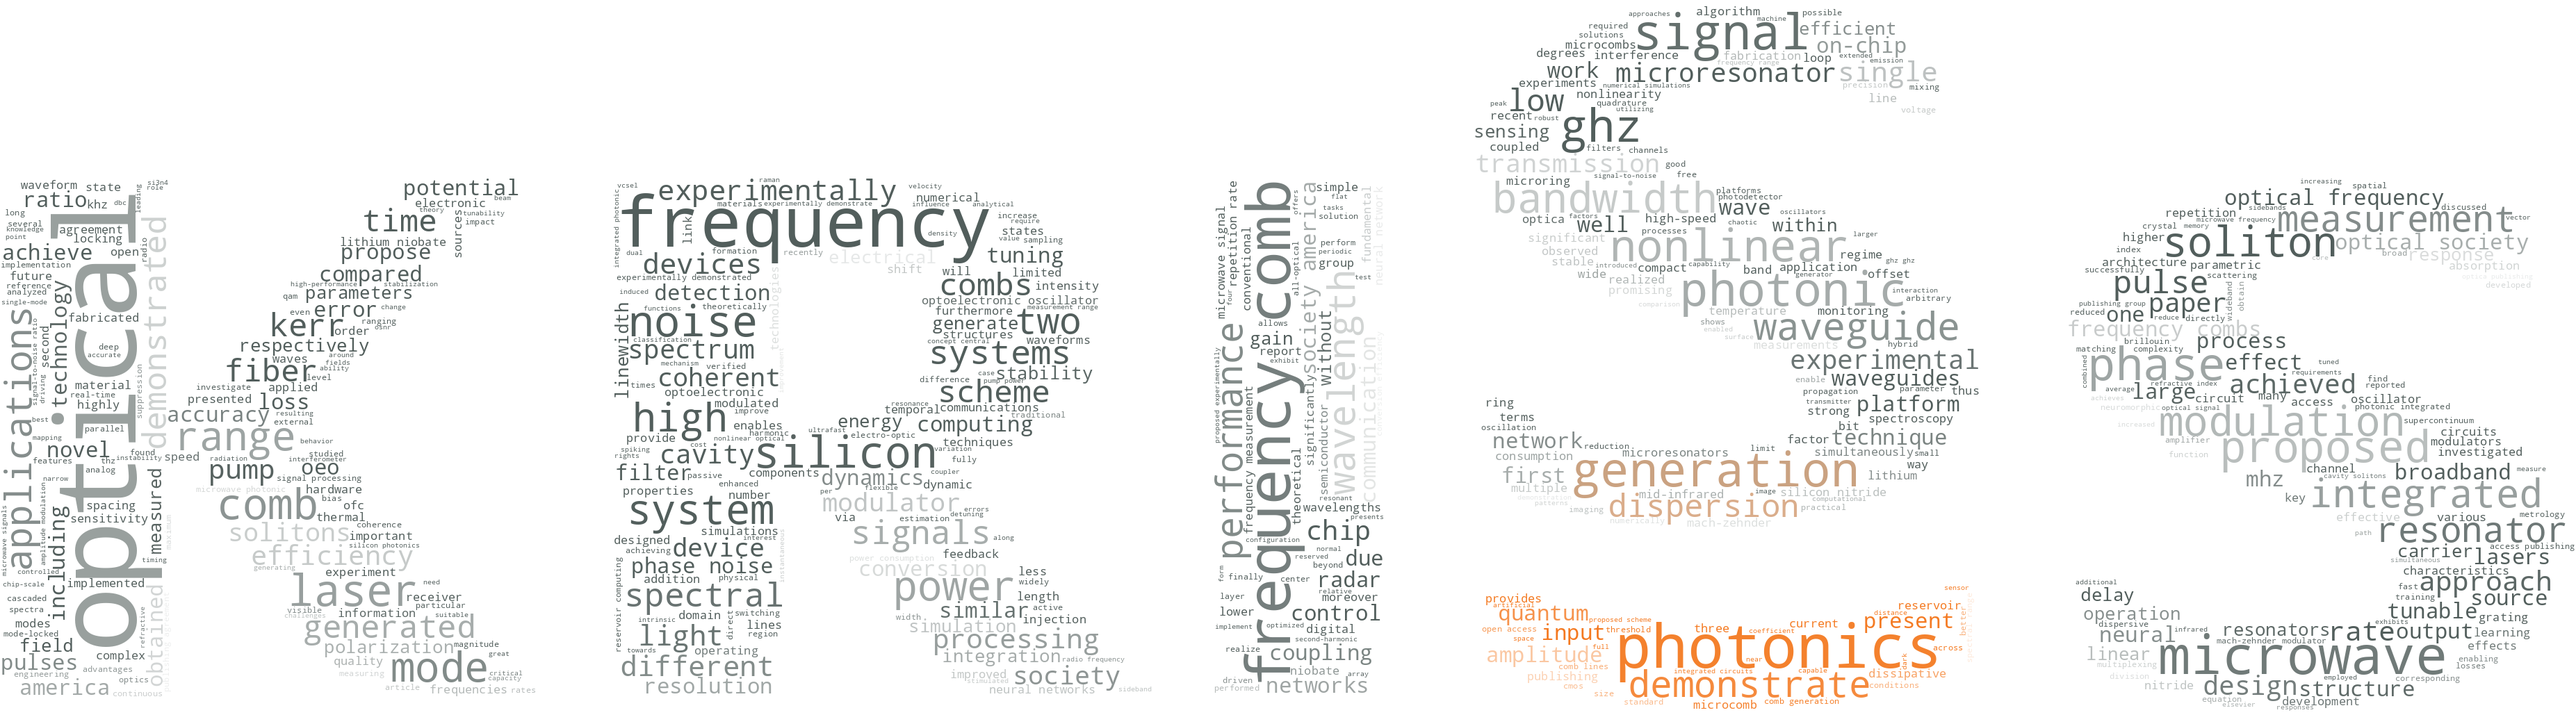
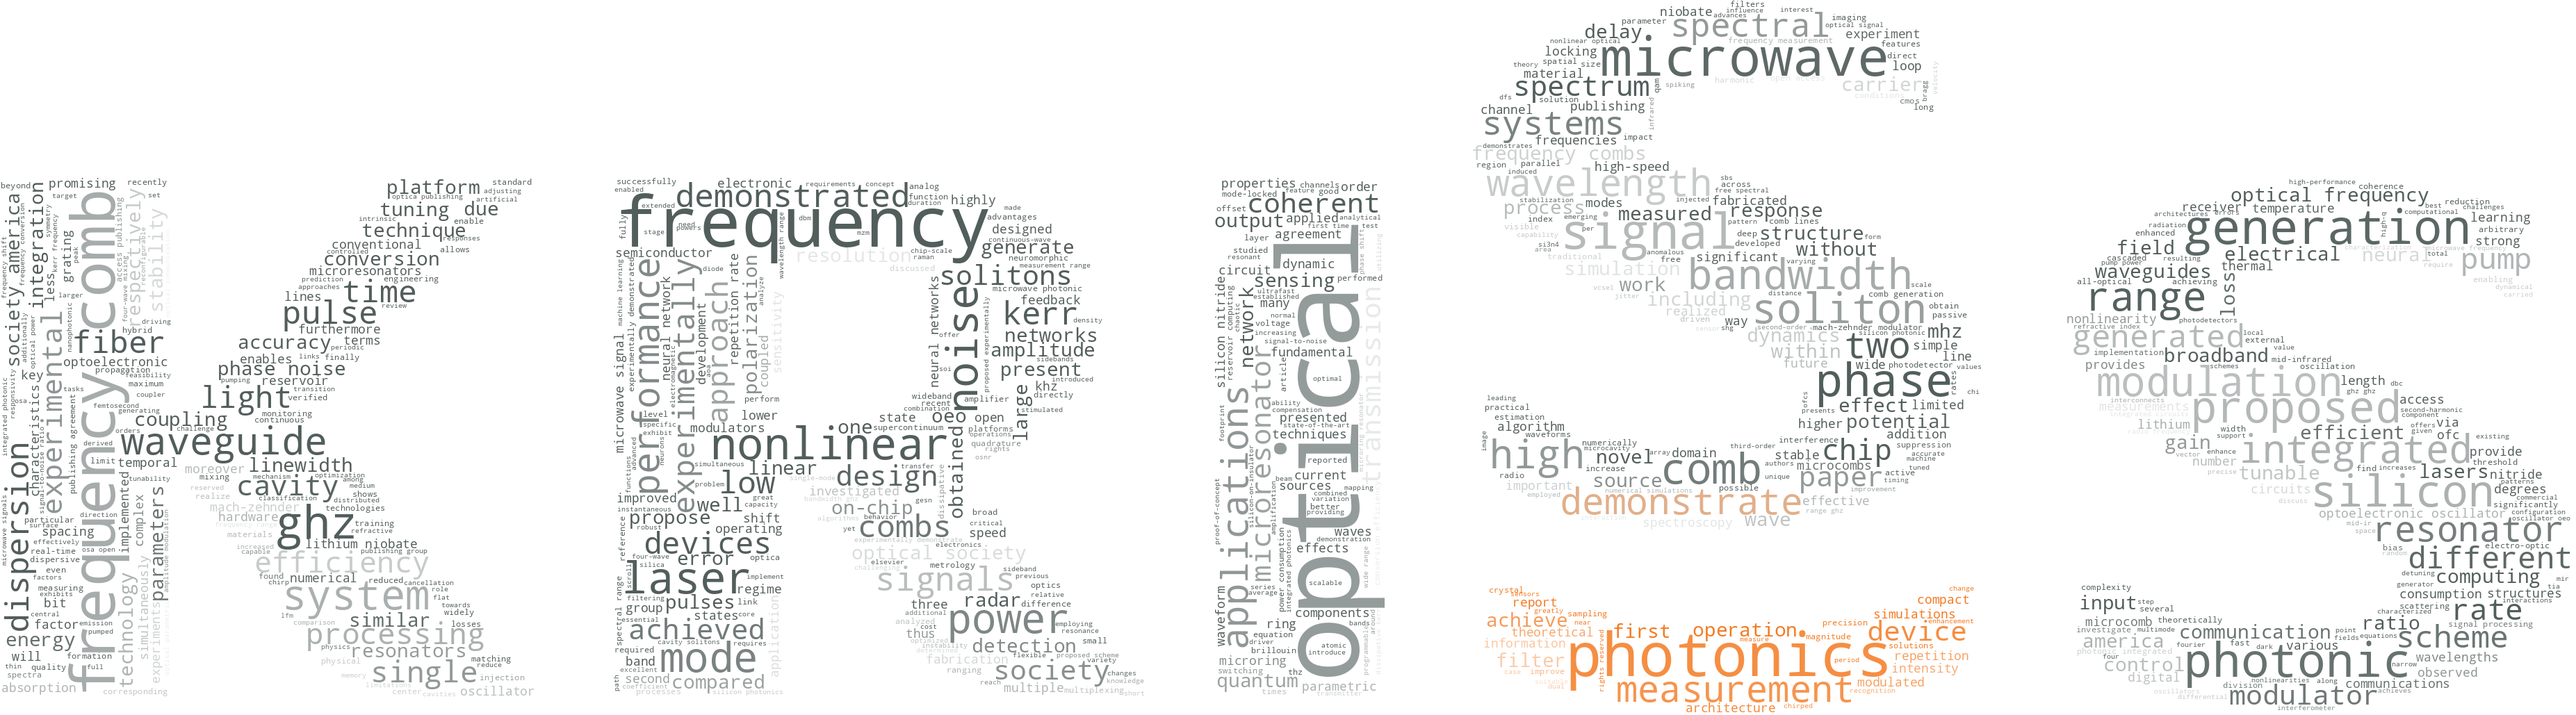
Fix terminology and refresh cluster 62 figures

diff --git a/Final_Report_MD/최종보고서 내용 2c4c6e66ff88807cb40fffc981037ae6.md b/Final_Report_MD/최종보고서 내용 2c4c6e66ff88807cb40fffc981037ae6.md
@@ -1100,7 +1100,7 @@ NRC와 NMIJ/AIST는 첨단제조 분야에, PTB와 NIM은 건강 분야에, NPLI
 | 28-55 - 플라즈몬 라만증강 분광 | 37-145 - 광음향·초음파 나노진단치료, 0.572 |
 | 31-120 - 레이저 플라즈마 원소분광 | 21-74 - XFEL 초고속 계측, 0.789 |
 | 31-61 - 초소수성 표면 레이저 가공 | 21-74 - XFEL 초고속 계측, 0.721 |
-| 32-87 - 광주주파수빗 계측 | 21-74 - XFEL 초고속 계측, 0.42 |
+| 32-87 - 광주파수빗 계측 | 21-74 - XFEL 초고속 계측, 0.42 |
 | 34-185 - 테라헤르츠 메타물질 측정 | 34-69 - 메타표면 광학소자, 0.911 |
 | 35-94 - 연료전지 수분 계측 | 9-12 - 배터리 양극·계면 측정, 0.716 |
 | 36-135 - 그래핀 합성·물성 측정 | 36-77 - 2차원 광전소자 측정, 0.947 |
@@ -1138,7 +1138,7 @@ NRC와 NMIJ/AIST는 첨단제조 분야에, PTB와 NIM은 건강 분야에, NPLI
 | 29-89 - 대사체·지질체 측정표준 | NIST; NPL; NRC |
 | 29-95 - 동위원소비 측정표준 | NIM; NIST; NPL; NRC |
 | 30-169 - 위상 양자물질 전자구조 측정 | NIST; NMIJ/AIST |
-| 32-62 - 집적 광주주파수빗 | NIST; NPL; NRC |
+| 32-62 - 집적 광주파수빗 | NIST; NPL; NRC |
 | 34-162 - 궤도각운동량 광계측 | NIM; NIST; PTB |
 | 43-125 - 유전체 변이 측정표준 | BAM; NIM; NIST |
 
@@ -1322,7 +1322,7 @@ $$
 | --- | --- | --- | --- | --- |
 | 11-159 - 나노셀룰로오스 소재측정 | 94.87 | 98.46 | 81.03 | 97.95 |
 | 43-125 - 유전체 변이 측정표준 | 44.10 | 77.95 | 99.49 | 93.85 |
-| 32-62 - 집적 광주주파수빗 | 61.03 | 91.28 | 97.95 | 92.31 |
+| 32-62 - 집적 광주파수빗 | 61.03 | 91.28 | 97.95 | 92.31 |
 | 9-189 - 다공성골격 가스분리 | 82.05 | 97.44 | 77.95 | 91.79 |
 | 18-133 - 적층 바이오제조 측정 | 62.05 | 93.33 | 70.26 | 81.54 |
 | 29-179 - 프로테오믹스 질량분석 | 44.62 | 65.64 | 96.41 | 81.03 |
@@ -1339,7 +1339,7 @@ $$
 
 바이오의료측정 영역에서 ‘43-125 유전체 변이 측정표준’은 특허 연계가 매우 활발한 분야로, 기술진보 기여도 측면에서 최상위권(2위)인 영역이다. 이 분야에서는 NIST, NIM, NPL이 두드러진 역량을 보이는 것으로 나타나, 표준·측정 관점에서 산업 및 임상 적용과의 연결이 강한 영역으로 해석된다. KRISS도 해당 분야 논문 산출은 존재하지만 질적으로 우수한 상위권 성과가 충분히 축적되지 못한 상태로 보인다. 또한 ‘29-179 프로테오믹스 질량분석’ 역시 특허 연계가 높아 기술진보 기여도 관점에서 유망하며, NIST, BAM, NRC가 강점을 보이는 영역으로 나타나 유망연구영역으로 선정되었다. KRISS는 이 영역에서 논문 산출은 있으나 상위 10% 문헌이 아직 확보되지 않아, “양적 기반은 있으나 질적 성과가 약한 공백”에 해당하는 형태로 해석된다.
 
-양자기술 영역에서는 ‘32-62 집적 광주주파수빗’이 특허 연계가 매우 큰 분야로 나타나 기술진보 기여도가 강한 공백 영역으로 해석되며, NIST, NPL, NRC가 강점을 보이는 것으로 보인다. ‘34-162 궤도각운동량 광계측’은 후속 연구로의 파급력이 높은 영역으로 유망 후보로 평가되며, NIST, NIM, PTB가 두드러진 역량을 보이는 것으로 나타나 유망연구영역으로 선정되었다. 
+양자기술 영역에서는 ‘32-62 집적 광주파수빗’이 특허 연계가 매우 큰 분야로 나타나 기술진보 기여도가 강한 공백 영역으로 해석되며, NIST, NPL, NRC가 강점을 보이는 것으로 보인다. ‘34-162 궤도각운동량 광계측’은 후속 연구로의 파급력이 높은 영역으로 유망 후보로 평가되며, NIST, NIM, PTB가 두드러진 역량을 보이는 것으로 나타나 유망연구영역으로 선정되었다. 
 
 이상의 결과를 종합하면 KRISS가 지속적으로 다양한 연구영역에서 연구 기반을 축적해 왔으며 특히 유망성이 높은 연구영역들도 다수 역량을 보유하고 있음을 보여주는 동시에, 주요 해외 기관들도 유망한 연구영역에 대해 투자를 통해 역량을 강화해 왔음을 시사한다. 세계적 수준의 벤치마킹 기관들과 같은 범주에서 경쟁을 논의할 수 있다는 사실은 “세계적 수준의 경쟁은 치열하다”는 의미이면서 동시에 “KRISS가 세계적 수준에서 경쟁력이 있다”는 의미이기도 하다.
 

diff --git a/docs/parts/report_3_3_2_emergence_scoring.md b/docs/parts/report_3_3_2_emergence_scoring.md
@@ -88,7 +88,7 @@
 | --- | --- | --- | --- | --- |
 | 11-159 - 나노셀룰로오스 소재측정 | 94.87 | 98.46 | 81.03 | 97.95 |
 | 43-125 - 유전체 변이 측정표준 | 44.10 | 77.95 | 99.49 | 93.85 |
-| 32-62 - 집적 광주주파수빗 | 61.03 | 91.28 | 97.95 | 92.31 |
+| 32-62 - 집적 광주파수빗 | 61.03 | 91.28 | 97.95 | 92.31 |
 | 9-189 - 다공성골격 가스분리 | 82.05 | 97.44 | 77.95 | 91.79 |
 | 18-133 - 적층 바이오제조 측정 | 62.05 | 93.33 | 70.26 | 81.54 |
 | 29-179 - 프로테오믹스 질량분석 | 44.62 | 65.64 | 96.41 | 81.03 |
@@ -107,6 +107,6 @@
 
 바이오의료측정 영역에서 ‘43-125 유전체 변이 측정표준’은 특허 연계가 매우 활발한 분야로, 기술진보 기여도 측면에서 최상위권(2위)인 영역이다. 이 분야에서는 NIST, NIM, NPL이 두드러진 역량을 보이는 것으로 나타나, 표준·측정 관점에서 산업 및 임상 적용과의 연결이 강한 영역으로 해석된다. KRISS도 해당 분야 논문 산출은 존재하지만 질적으로 우수한 상위권 성과가 충분히 축적되지 못한 상태로 보인다. 또한 ‘29-179 프로테오믹스 질량분석’ 역시 특허 연계가 높아 기술진보 기여도 관점에서 유망하며, NIST, BAM, NRC가 강점을 보이는 영역으로 나타나 유망연구영역으로 선정되었다. KRISS는 이 영역에서 논문 산출은 있으나 상위 10% 문헌이 아직 확보되지 않아, “양적 기반은 있으나 질적 성과가 약한 공백”에 해당하는 형태로 해석된다.
 
-양자기술 영역에서는 ‘32-62 집적 광주주파수빗’이 특허 연계가 매우 큰 분야로 나타나 기술진보 기여도가 강한 공백 영역으로 해석되며, NIST, NPL, NRC가 강점을 보이는 것으로 보인다. ‘34-162 궤도각운동량 광계측’은 후속 연구로의 파급력이 높은 영역으로 유망 후보로 평가되며, NIST, NIM, PTB가 두드러진 역량을 보이는 것으로 나타나 유망연구영역으로 선정되었다.
+양자기술 영역에서는 ‘32-62 집적 광주파수빗’이 특허 연계가 매우 큰 분야로 나타나 기술진보 기여도가 강한 공백 영역으로 해석되며, NIST, NPL, NRC가 강점을 보이는 것으로 보인다. ‘34-162 궤도각운동량 광계측’은 후속 연구로의 파급력이 높은 영역으로 유망 후보로 평가되며, NIST, NIM, PTB가 두드러진 역량을 보이는 것으로 나타나 유망연구영역으로 선정되었다.
 
 이상의 결과를 종합하면 KRISS가 지속적으로 다양한 연구영역에서 연구 기반을 축적해 왔으며 특히 유망성이 높은 연구영역들도 다수 역량을 보유하고 있음을 보여주는 동시에, 주요 해외 기관들도 유망한 연구영역에 대해 투자를 통해 역량을 강화해 왔음을 시사한다. 세계적 수준의 벤치마킹 기관들과 같은 범주에서 경쟁을 논의할 수 있다는 사실은 “세계적 수준의 경쟁은 치열하다”는 의미이면서 동시에 “KRISS가 세계적 수준에서 경쟁력이 있다”는 의미이기도 하다.

diff --git a/docs/detailed_reports/cluster_62/parts/05_policy_compatibility.md b/docs/detailed_reports/cluster_62/parts/05_policy_compatibility.md
@@ -16,7 +16,7 @@
 | 기준 문헌 수 |  | 143 |
 
 ### 5-2. 정책부합성 해석
-이 클러스터는 마이크로공진기 기반 집적 광주주파수빗으로 다파장 광 신호를 만들고 이를 통신·센싱·정밀 계측·컴퓨팅에 쓰는 연구를 다루며, 문헌 분류 결과 `산업혁신·첨단제조 정책 지원 측정 과학` 영역이 96.30%(52편) 로 가장 높은 비중을 차지합니다. 이는 칩 위에서 주파수콤 생성, 솔리톤 동작, 전기광학 변조기 등 광집적 소자를 함께 집적·구동하고, 위상잡음·선폭·반복률 같은 성능지표를 측정해 시스템 구현과 제조 재현성에 연결하기 때문입니다.
+이 클러스터는 마이크로공진기 기반 집적 광주파수빗으로 다파장 광 신호를 만들고 이를 통신·센싱·정밀 계측·컴퓨팅에 쓰는 연구를 다루며, 문헌 분류 결과 `산업혁신·첨단제조 정책 지원 측정 과학` 영역이 96.30%(52편) 로 가장 높은 비중을 차지합니다. 이는 칩 위에서 주파수콤 생성, 솔리톤 동작, 전기광학 변조기 등 광집적 소자를 함께 집적·구동하고, 위상잡음·선폭·반복률 같은 성능지표를 측정해 시스템 구현과 제조 재현성에 연결하기 때문입니다.
 
 예를 들어 분류된 문헌에는 `on -chip spectrometer`처럼 칩 위 분광·판독 기능을 직접 구현하는 표현이 포함되어, 집적 광소자 제작과 그 성능을 정량화하는 측정이 산업혁신·첨단제조 영역과 맞닿아 있음을 보여줍니다.
 

diff --git a/docs/detailed_reports/cluster_79/parts/03_knowledge_keywords.md b/docs/detailed_reports/cluster_79/parts/03_knowledge_keywords.md
@@ -78,7 +78,7 @@
 </tr>
 <tr>
 <td style="text-align: left; vertical-align: top; white-space: nowrap;">AA</td>
-<td style="text-align: left; vertical-align: top; word-break: break-word; hyphens: auto;">32-62 - 집적 광주주파수빗</td>
+<td style="text-align: left; vertical-align: top; word-break: break-word; hyphens: auto;">32-62 - 집적 광주파수빗</td>
 <td style="text-align: left; vertical-align: top; white-space: nowrap;">역량 공백</td>
 <td style="text-align: right; vertical-align: top; white-space: nowrap;">0.89</td>
 <td style="text-align: left; vertical-align: top; word-break: break-word; hyphens: auto;">frequency comb, photonics, microwave, soliton, optoelectronic oscillator</td>
@@ -92,7 +92,7 @@
 </tr>
 <tr>
 <td style="text-align: left; vertical-align: top; white-space: nowrap;">AA</td>
-<td style="text-align: left; vertical-align: top; word-break: break-word; hyphens: auto;">32-87 - 광주주파수빗 계측</td>
+<td style="text-align: left; vertical-align: top; word-break: break-word; hyphens: auto;">32-87 - 광주파수빗 계측</td>
 <td style="text-align: left; vertical-align: top; white-space: nowrap;">확장 가능</td>
 <td style="text-align: right; vertical-align: top; white-space: nowrap;">0.78</td>
 <td style="text-align: left; vertical-align: top; word-break: break-word; hyphens: auto;">carrier-envelope, frequency comb, megahertz, mid-infrared, laser</td>

diff --git a/docs/parts/report_3_2_emerging_candidates.md b/docs/parts/report_3_2_emerging_candidates.md
@@ -85,7 +85,7 @@
 | 28-55 - 플라즈몬 라만증강 분광 | 37-145 - 광음향·초음파 나노진단치료, 0.572 |
 | 31-120 - 레이저 플라즈마 원소분광 | 21-74 - XFEL 초고속 계측, 0.789 |
 | 31-61 - 초소수성 표면 레이저 가공 | 21-74 - XFEL 초고속 계측, 0.721 |
-| 32-87 - 광주주파수빗 계측 | 21-74 - XFEL 초고속 계측, 0.42 |
+| 32-87 - 광주파수빗 계측 | 21-74 - XFEL 초고속 계측, 0.42 |
 | 34-185 - 테라헤르츠 메타물질 측정 | 34-69 - 메타표면 광학소자, 0.911 |
 | 35-94 - 연료전지 수분 계측 | 9-12 - 배터리 양극·계면 측정, 0.716 |
 | 36-135 - 그래핀 합성·물성 측정 | 36-77 - 2차원 광전소자 측정, 0.947 |
@@ -124,7 +124,7 @@
 | 29-89 - 대사체·지질체 측정표준                 | NIST; NPL; NRC            |
 | 29-95 - 동위원소비 측정표준                    | NIM; NIST; NPL; NRC       |
 | 30-169 - 위상 양자물질 전자구조 측정           | NIST; NMIJ/AIST           |
-| 32-62 - 집적 광주주파수빗                        | NIST; NPL; NRC            |
+| 32-62 - 집적 광주파수빗                        | NIST; NPL; NRC            |
 | 34-162 - 궤도각운동량 광계측                   | NIM; NIST; PTB            |
 | 43-125 - 유전체 변이 측정표준                  | BAM; NIM; NIST            |
 

diff --git a/docs/detailed_reports/cluster_117/parts/03_knowledge_keywords.md b/docs/detailed_reports/cluster_117/parts/03_knowledge_keywords.md
@@ -113,7 +113,7 @@
 </tr>
 <tr>
 <td style="text-align: left; vertical-align: top; white-space: nowrap;">AA</td>
-<td style="text-align: left; vertical-align: top; word-break: break-word; hyphens: auto;">32-87 - 광주주파수빗 계측</td>
+<td style="text-align: left; vertical-align: top; word-break: break-word; hyphens: auto;">32-87 - 광주파수빗 계측</td>
 <td style="text-align: left; vertical-align: top; white-space: nowrap;">확장 가능</td>
 <td style="text-align: right; vertical-align: top; white-space: nowrap;">0.42</td>
 <td style="text-align: left; vertical-align: top; word-break: break-word; hyphens: auto;">carrier-envelope, frequency comb, megahertz, mid-infrared, laser</td>

diff --git a/docs/detailed_reports/cluster_62/parts/03_knowledge_keywords.md b/docs/detailed_reports/cluster_62/parts/03_knowledge_keywords.md
@@ -57,7 +57,7 @@
 </tr>
 <tr>
 <td style="text-align: left; vertical-align: top; white-space: nowrap;">EA</td>
-<td style="text-align: left; vertical-align: top; word-break: break-word; hyphens: auto;">32-87 - 광주주파수빗 계측</td>
+<td style="text-align: left; vertical-align: top; word-break: break-word; hyphens: auto;">32-87 - 광주파수빗 계측</td>
 <td style="text-align: left; vertical-align: top; white-space: nowrap;">확장 가능</td>
 <td style="text-align: right; vertical-align: top; white-space: nowrap;">0.88</td>
 <td style="text-align: left; vertical-align: top; word-break: break-word; hyphens: auto;">carrier-envelope, frequency comb, megahertz, mid-infrared, laser</td>

diff --git a/docs/parts/report_2_2_benchmark_institutions.md b/docs/parts/report_2_2_benchmark_institutions.md
@@ -9,7 +9,7 @@
 | United States of America | National Institute of Standards & Technology (NIST) - USA |
 | Germany | Federal Institute for Materials Research & Testing (BAM) |
 | Germany | Physikalisch-Technische Bundesanstalt (PTB) |
-| India | CSIR - National Physical Laboratory (NPL) |
+| India | CSIR - National Physical Laboratory (NPLI) |
 | United Kingdom | National Physical Laboratory - UK |
 | Canada | National Research Council Canada [NRC] |
 | Italy | Istituto Nazionale di Ricerca Metrologica (INRIM) |
